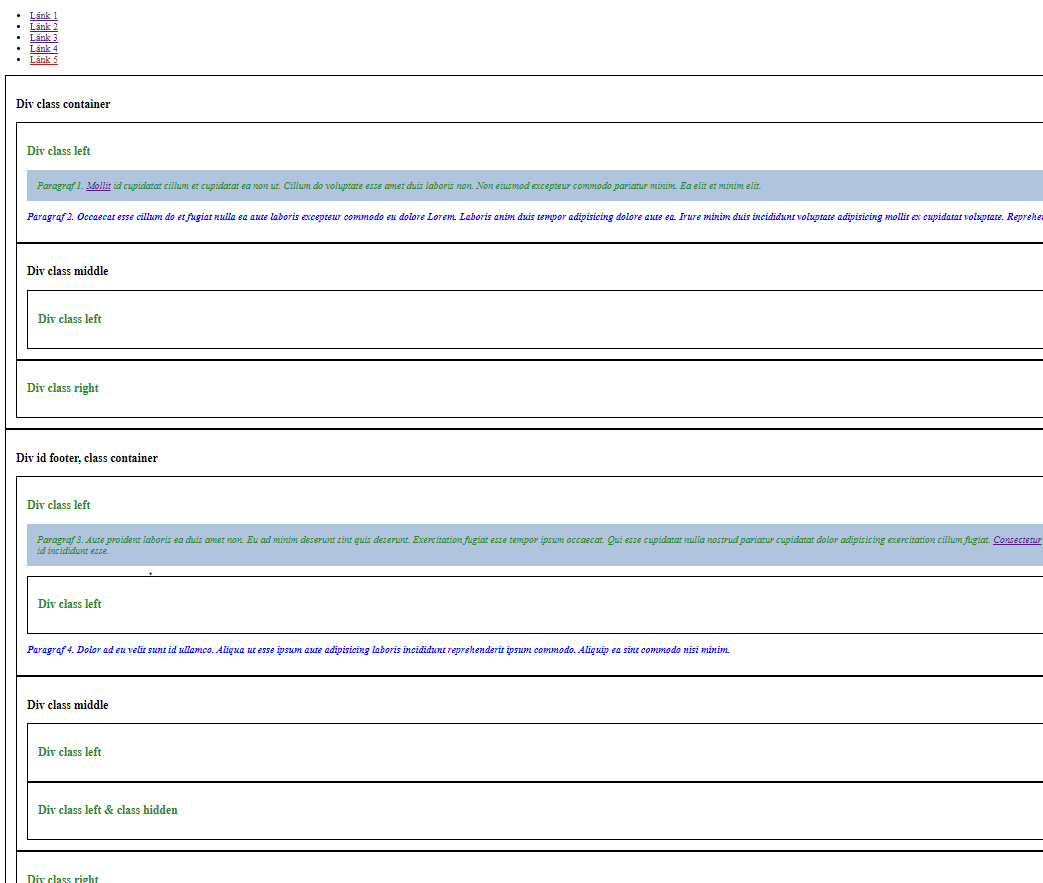
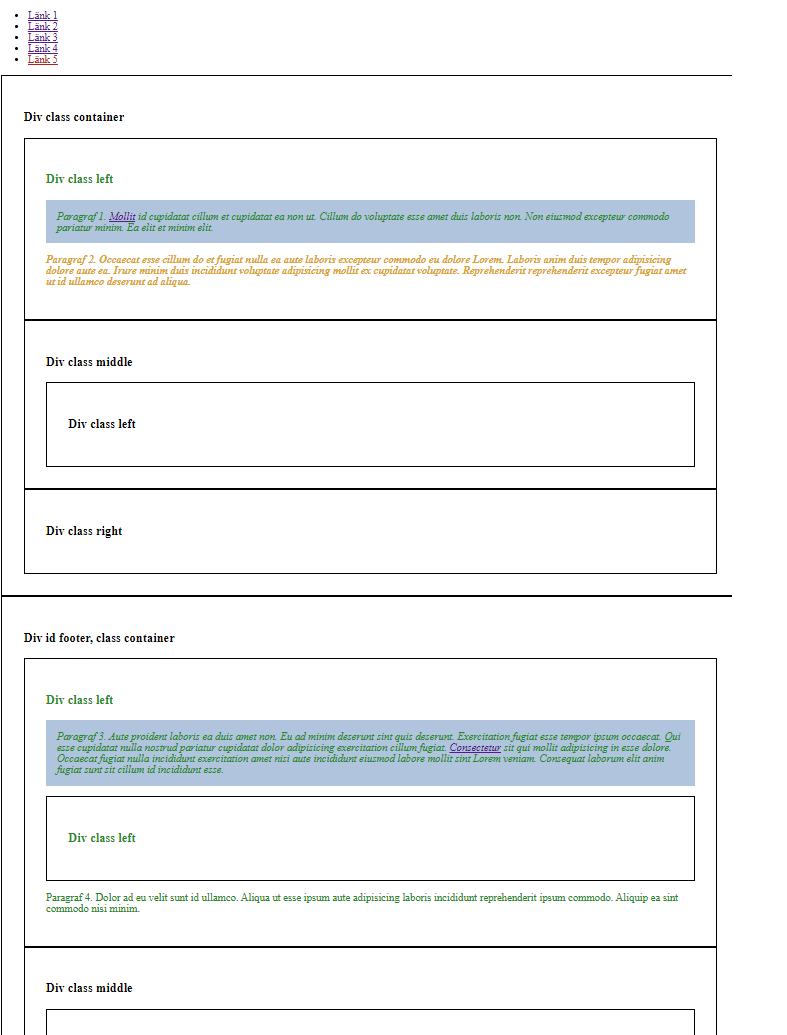
bild övning 5

Changed region(s): [[0.0, 0.0, 1.0, 1.0]]

diff --git a/9.1 - Avancerade selektorer/Övningar/start-9.1.css b/9.1 - Avancerade selektorer/Övningar/start-9.1.css
@@ -1,0 +1,4 @@
+div {
+    border: 1px solid #000;
+    padding: 2rem;
+}
